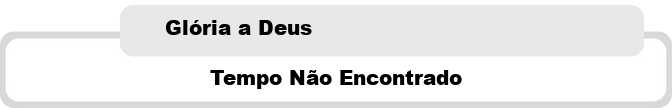
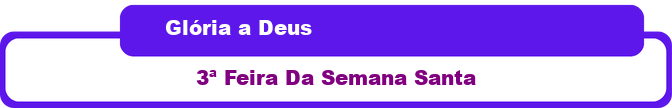
nsa-stream up

diff --git a/criarLegendaV3.py b/criarLegendaV3.py
@@ -1,0 +1,334 @@
+import os
+import subprocess
+import sys
+import argparse
+from datetime import datetime, timedelta
+
+import requests
+from PIL import Image, ImageFont, ImageDraw
+
+# ------------------------------------------------------------------------------------------
+# CONFIGURAÇÕES GLOBAIS
+# ------------------------------------------------------------------------------------------
+
+API_BASE_URL = "https://liturgia.up.railway.app/v2/"
+OUTPUT_DIR = "src"
+
+# ------------------------------------------------------------------------------------------
+# PARTE 1: Busca da liturgia via API
+# ------------------------------------------------------------------------------------------
+
+def fetch_liturgy(day_offset: int = 0) -> dict:
+    """
+    Busca a liturgia do dia via API.
+    day_offset: 0 = hoje, 1 = amanhã, 2 = daqui 2 dias, etc.
+    """
+    target_date = datetime.now() + timedelta(days=day_offset)
+    day = target_date.strftime("%d")
+    month = target_date.strftime("%m")
+    year = target_date.strftime("%Y")
+
+    url = f"{API_BASE_URL}?dia={day}&mes={month}&ano={year}"
+    print(f"[INFO] Buscando liturgia de {target_date.strftime('%d/%m/%Y')}...")
+    print(f"[INFO] URL: {url}")
+
+    response = requests.get(url, timeout=15)
+
+    # Verifica se a liturgia foi encontrada
+    if response.status_code == 404:
+        error_data = response.json()
+        raise Exception(f"Liturgia não encontrada: {error_data.get('erro', 'Erro desconhecido')}")
+
+    response.raise_for_status()
+    return response.json()
+
+
+def parse_liturgy_data(api_data: dict) -> list:
+    """
+    Converte o JSON da API para o formato de lista que criarImagens espera.
+    Estrutura: [titulo, tempo, cor, primeira, salmo, segunda, evangelho, respostaSalmo]
+    """
+    leituras = api_data.get("leituras", {})
+
+    # Extrai referências das leituras (pega o primeiro item de cada array)
+    def get_referencia(key: str) -> str:
+        items = leituras.get(key, [])
+        return items[0].get("referencia", "") if items else ""
+
+    primeira_leitura = get_referencia("primeiraLeitura")
+    segunda_leitura = get_referencia("segundaLeitura")
+    evangelho = get_referencia("evangelho")
+
+    # Salmo tem estrutura diferente: referencia + refrao
+    salmo_data = leituras.get("salmo", [])
+    salmo_ref = salmo_data[0].get("referencia", "") if salmo_data else ""
+    resposta_salmo = salmo_data[0].get("refrao", "") if salmo_data else ""
+
+    info_liturgy = [
+        api_data.get("liturgia", ""),   # [0] título do dia (ex: "Sábado da 5ª Semana...")
+        api_data.get("liturgia", ""),   # [1] tempo litúrgico
+        api_data.get("cor", "Branco"),  # [2] cor litúrgica
+        primeira_leitura,               # [3] primeira leitura
+        salmo_ref,                      # [4] salmo (referencia)
+        segunda_leitura,                # [5] segunda leitura (vazio se não houver)
+        evangelho,                      # [6] evangelho (index -2)
+        resposta_salmo,                 # [7] resposta do salmo (index -1)
+    ]
+
+    print(f"[INFO] Liturgia: {info_liturgy[0]}")
+    print(f"[INFO] Cor: {info_liturgy[2]}")
+    print(f"[INFO] Primeira Leitura: {info_liturgy[3]}")
+    print(f"[INFO] Salmo: {info_liturgy[4]}")
+    print(f"[INFO] Resposta do Salmo: {info_liturgy[7]}")
+    print(f"[INFO] Evangelho: {info_liturgy[6]}")
+    if segunda_leitura:
+        print(f"[INFO] Segunda Leitura: {info_liturgy[5]}")
+
+    return info_liturgy
+
+
+# ------------------------------------------------------------------------------------------
+# PARTE 2: Geração das imagens (mesma lógica, sem GUI)
+# ------------------------------------------------------------------------------------------
+
+def create_images(info_liturgy: list):
+    """
+    Gera as imagens de liturgia na pasta OUTPUT_DIR.
+    Espera lista: [titulo, tempo, cor, primeira, salmo, segunda, evangelho, respostaSalmo]
+    """
+    # Cria pasta de saída se não existir
+    if not os.path.exists(OUTPUT_DIR):
+        os.makedirs(OUTPUT_DIR)
+
+    # Salva dados em txt para debug/histórico
+    txt_path = os.path.join(OUTPUT_DIR, "informacoes.txt")
+    with open(txt_path, "w", encoding="utf-8") as f:
+        for info in info_liturgy:
+            f.write(f"{info}\n")
+
+    if len(info_liturgy) < 6:
+        raise ValueError("Dados insuficientes para gerar imagens.")
+
+    # Extrai os campos
+    primeira_leitura = info_liturgy[3]
+    salmo = info_liturgy[4]
+    resposta_salmo = info_liturgy[-1]
+    evangelho = info_liturgy[-2]
+    segunda_leitura = ""
+
+    info_liturgy_1 = str(info_liturgy[1])
+
+    # Verifica se é domingo para incluir segunda leitura
+    if "DOMINGO" in str(info_liturgy[0]).upper():
+        if len(info_liturgy) > 5:
+            segunda_leitura = info_liturgy[5]
+        # Formata o número do domingo (ex: "23" → "23 DOMINGO")
+        if info_liturgy_1 and info_liturgy_1[0].isdigit():
+            idx = 2
+            if "DOMINGO" not in info_liturgy_1.upper():
+                info_liturgy[1] = info_liturgy_1[:idx] + " DOMINGO" + info_liturgy_1[idx:]
+
+    liturgical_time = info_liturgy[1].title()
+
+    # Mapeamento de cores PT → EN (para nome dos arquivos de fundo)
+    color_map = {
+        "branco": "white",
+        "verde": "green",
+        "vermelho": "red",
+        "roxo": "purple",
+        "rosa": "pink",
+        "azul": "blue",
+    }
+
+    color_str = "white"
+    color_info = str(info_liturgy[2]).lower()
+    for pt_color, en_color in color_map.items():
+        if pt_color in color_info:
+            color_str = en_color
+            break
+
+    # Define cores do texto baseado na cor de fundo
+    if color_str == "white":
+        text_color_1 = "black"
+        text_color_2 = "black"
+    else:
+        text_color_1 = "white"
+        text_color_2 = color_str
+
+    # Carrega fontes
+    font_path = "./Resources/Fontes/arial_bold.TTF"
+    try:
+        font_main = ImageFont.truetype(font_path, 20, encoding="utf-8")
+        font_psalm = ImageFont.truetype(font_path, 18, encoding="utf-8")
+    except IOError:
+        print("[AVISO] Fonte não encontrada, usando padrão do sistema.")
+        font_main = ImageFont.load_default()
+        font_psalm = font_main
+
+    # Leituras principais e cards extras
+    liturgy_slides = [
+        ["Primeira Leitura", primeira_leitura, liturgical_time],
+        ["Salmo", salmo, resposta_salmo],
+        ["Segunda Leitura", segunda_leitura, liturgical_time],
+        ["Evangelho", evangelho, liturgical_time],
+    ]
+
+    extra_cards = [
+        "Canto de Entrada", "Ato Penitencial", "Glória a Deus",
+        "Canto da Comunhão", "Rito do Ofertório", "Preces da Assembleia",
+        "Liturgia Eucarística", "Profissão de Fé", "Preparação das Oferendas",
+        "Oração Eucarística", "Rito da Comunhão",
+    ]
+
+    def center_text(draw, text: str, y_pos: int, font, img_width: int, color: str):
+        """Centraliza horizontalmente um texto na imagem."""
+        if not text:
+            return
+        bbox = draw.textbbox((0, 0), text, font=font)
+        text_width = bbox[2] - bbox[0]
+        x_pos = (img_width - text_width) / 2
+        draw.text((x_pos, y_pos), text, font=font, fill=color)
+
+    def process_image(file_name: str, top_text: str, bottom_text: str, is_psalm: bool = False):
+        """Abre o fundo correto, escreve os textos e salva a imagem."""
+        if file_name == "Segunda Leitura" and not top_text:
+            return  # Pula segunda leitura se não houver
+
+        bg_path = f"Resources/Imagens/{color_str}.png"
+        if not os.path.exists(bg_path):
+            print(f"[ERRO] Fundo não encontrado: {bg_path}")
+            return
+
+        try:
+            image = Image.open(bg_path)
+            draw = ImageDraw.Draw(image)
+            img_w, img_h = image.size
+
+            # Escreve o texto superior
+            draw.text((165, 12), top_text, font=font_main, fill=text_color_1)
+
+            y_bottom = 62
+
+            if is_psalm:
+                # Salmo: quebra o texto em duas linhas se muito longo
+                y_bottom = 56
+                bbox = draw.textbbox((0, 0), bottom_text, font=font_main)
+                text_w = bbox[2] - bbox[0]
+
+                if text_w > (img_w * 0.80):
+                    mid_char = len(bottom_text) // 2
+                    split_idx = bottom_text.rfind(" ", 0, mid_char)
+                    if split_idx == -1:
+                        split_idx = bottom_text.find(" ", mid_char)
+
+                    if split_idx != -1:
+                        line1 = bottom_text[:split_idx].strip()
+                        line2 = bottom_text[split_idx:].strip()
+                        center_text(draw, line1, 52, font_psalm, img_w, text_color_2)
+                        center_text(draw, line2, 77, font_psalm, img_w, text_color_2)
+                    else:
+                        center_text(draw, bottom_text, y_bottom, font_psalm, img_w, text_color_2)
+                else:
+                    center_text(draw, bottom_text, y_bottom, font_main, img_w, text_color_2)
+            else:
+                center_text(draw, bottom_text, y_bottom, font_main, img_w, text_color_2)
+
+            output_path = os.path.join(OUTPUT_DIR, f"{file_name}.png")
+            image.save(output_path)
+            image.close()
+            print(f"[OK] {file_name}.png gerado.")
+
+        except Exception as e:
+            print(f"[ERRO] Falha ao processar {file_name}: {e}")
+
+    # Gera imagens das leituras litúrgicas
+    for slide in liturgy_slides:
+        name, top, bottom = slide
+        process_image(name, top, bottom, is_psalm=(name == "Salmo"))
+
+    # Gera cards dos outros momentos da missa
+    for card in extra_cards:
+        process_image(card, card, liturgical_time)
+
+    total = len(liturgy_slides) + len(extra_cards)
+    print(f"\n[SUCESSO] {total} imagens geradas em './{OUTPUT_DIR}'")
+
+
+# ------------------------------------------------------------------------------------------
+# PARTE 3: Atualização do repositório GitHub
+# ------------------------------------------------------------------------------------------
+
+def push_to_github():
+    """Executa git add, commit e push para atualizar o repositório."""
+    print("\n[GIT] Atualizando repositório GitHub...")
+
+    try:
+        # Adiciona todas as alterações
+        subprocess.run(["git", "add", "."], check=True)
+        print("[GIT] git add . ✓")
+
+        # Faz o commit (ignora erro se não houver mudanças)
+        result = subprocess.run(
+            ["git", "commit", "-m", "nsa-stream up"],
+            capture_output=True,
+            text=True
+        )
+        if result.returncode == 0:
+            print("[GIT] git commit ✓")
+        else:
+            print("[GIT] Nada novo para commitar, seguindo com push...")
+
+        # Envia para o remoto com force
+        subprocess.run(["git", "push", "origin", "main", "--force"], check=True)
+        print("[GIT] git push ✓")
+        print("[GIT] Repositório atualizado com sucesso!")
+
+    except subprocess.CalledProcessError as e:
+        print(f"[ERRO GIT] Falha no comando Git: {e}")
+        sys.exit(1)
+
+
+# ------------------------------------------------------------------------------------------
+# ENTRYPOINT
+# ------------------------------------------------------------------------------------------
+
+def main():
+    parser = argparse.ArgumentParser(description="Gerador de Liturgia - NSA Stream")
+    parser.add_argument(
+        "--offset",
+        type=int,
+        default=0,
+        help="Quantos dias à frente buscar (0=hoje, 1=amanhã, 2=daqui 2 dias...)"
+    )
+    parser.add_argument(
+        "--no-push",
+        action="store_true",
+        help="Gera as imagens mas NÃO faz push para o GitHub"
+    )
+    args = parser.parse_args()
+
+    print("=" * 50)
+    print("   NSA STREAM - GERADOR DE LITURGIA")
+    print("=" * 50)
+
+    # 1. Busca liturgia na API
+    api_data = fetch_liturgy(day_offset=args.offset)
+
+    # 2. Converte dados da API para o formato interno
+    info_liturgy = parse_liturgy_data(api_data)
+
+    # 3. Gera as imagens
+    print("\n[INFO] Gerando imagens...")
+    create_images(info_liturgy)
+
+    # 4. Atualiza GitHub (a menos que --no-push seja passado)
+    if not args.no_push:
+        push_to_github()
+    else:
+        print("\n[INFO] Push para GitHub pulado (--no-push ativo).")
+
+    print("\n[DONE] Processo finalizado!")
+
+
+if __name__ == "__main__":
+    main()
